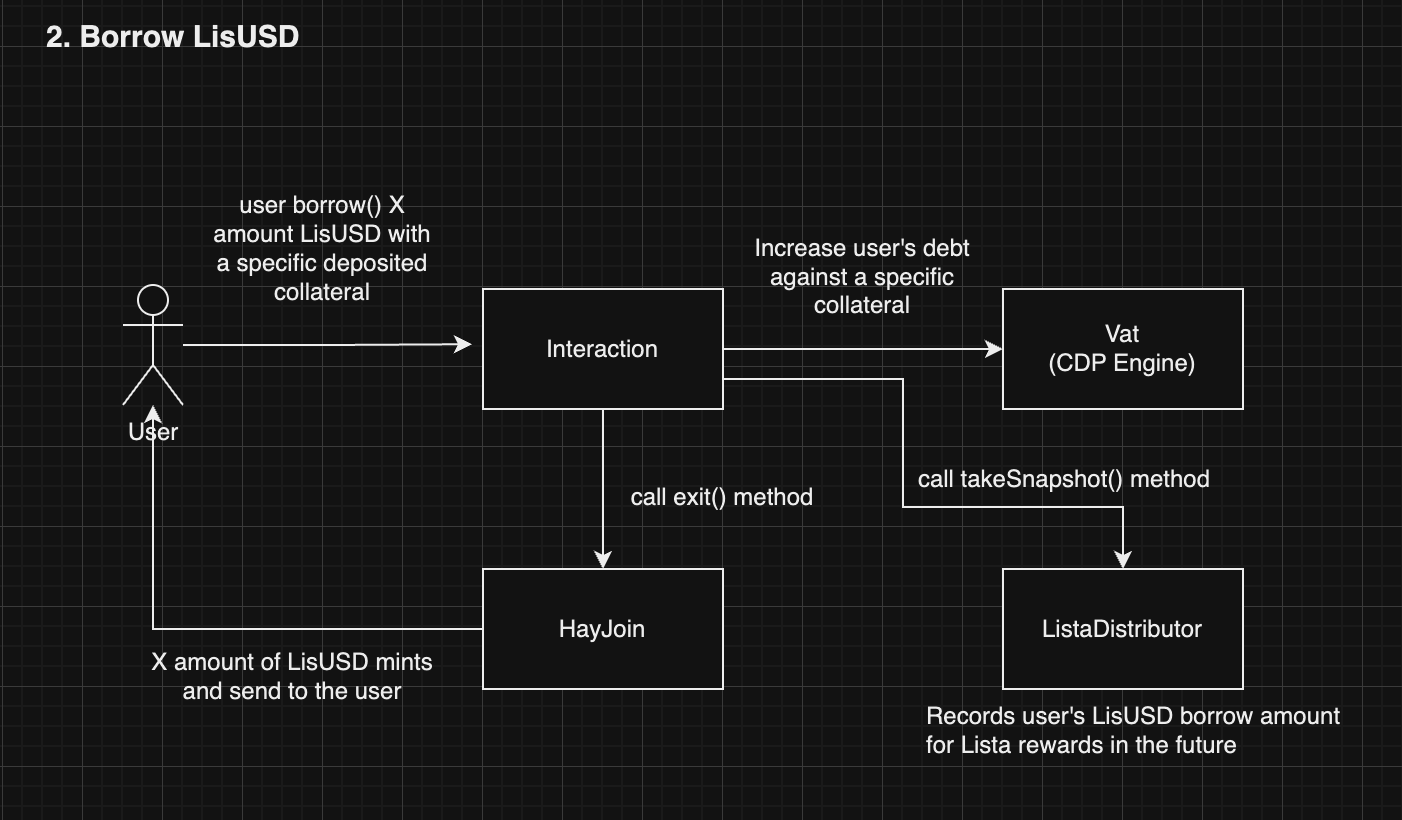
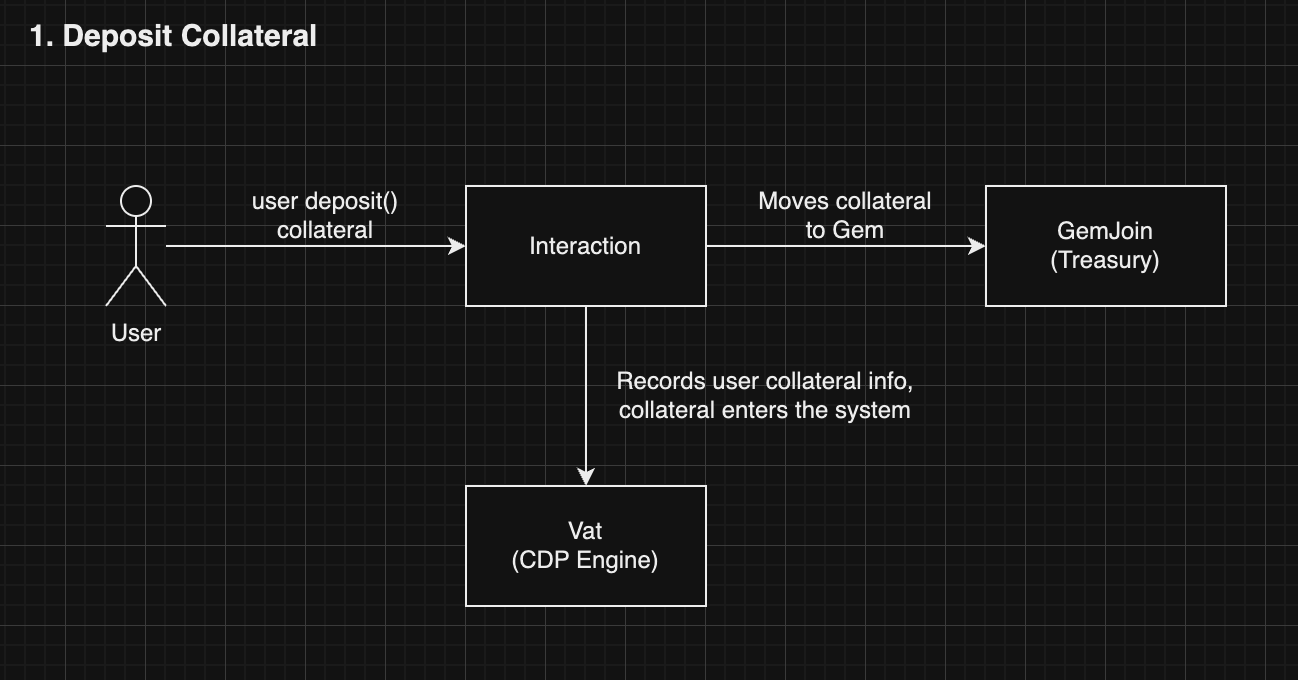
GITBOOK-151: No subject

diff --git a/SUMMARY.md b/SUMMARY.md
@@ -9,7 +9,7 @@
     * [Lista Innovation Zone](introduction/collateral-debt-position-lisusd/collateral/lista-innovation-zone.md)
     * [Loan liquidation](introduction/collateral-debt-position-lisusd/collateral/loan-liquidation.md)
   * [lisUSD](introduction/collateral-debt-position-lisusd/lisusd/README.md)
-    * [Price stability Module (PSM)](introduction/collateral-debt-position-lisusd/lisusd/price-stability-module-psm.md)
+    * [Stable Pool - Price stability Module (PSM)](introduction/collateral-debt-position-lisusd/lisusd/stable-pool-price-stability-module-psm.md)
     * [lisUSD Saving Rate (LSR)](introduction/collateral-debt-position-lisusd/lisusd/lisusd-saving-rate-lsr.md)
     * [D3M - Direct Deposit Module](introduction/collateral-debt-position-lisusd/lisusd/d3m-direct-deposit-module.md)
     * [Algorithmic Market Operations (AMO)](introduction/collateral-debt-position-lisusd/lisusd/algorithmic-market-operations-amo/README.md)

diff --git a/security/audit-reports.md b/security/audit-reports.md
@@ -8,6 +8,8 @@ Lista's smart contracts have undergone multiple external audits and security ass
 
 | Feature                                          | Report                                                                                                                                                                                                                  |
 | ------------------------------------------------ | ----------------------------------------------------------------------------------------------------------------------------------------------------------------------------------------------------------------------- |
+| LISTA Lending                                    | [Bailsec-ListaLending-AuditReport-20250410.pdf](https://github.com/lista-dao/moolah/blob/master/docs/audits/Bailsec-ListaLending-AuditReport-20250410.pdf)                                                              |
+| LISTA Lending                                    | [Blocksec-ListaLending-AuditReport-20250410.pdf](https://github.com/lista-dao/moolah/blob/master/docs/audits/Blocksec-ListaLending-AuditReport-20250410.pdf)                                                            |
 | USDT Staking to Pancake                          | [blocksec\_lista\_usdtLpdistributor\_v1.0-signed.pdf](https://github.com/lista-dao/lista-token/blob/master/audits/blocksec_lista_usdtLpdistributor_v1.0-signed.pdf)                                                     |
 | USDT Staking to Pancake                          | [bailsec\_lista\_usdtLpdistributor\_final\_report.pdf](https://github.com/lista-dao/lista-token/blob/master/audits/bailsec_lista_usdtLpdistributor_final_report.pdf)                                                    |
 | slisBNB Provider                                 | [Bailsec\_SlisbnbProvider\_Final\_Report\_241127.pdf ](https://github.com/lista-dao/lista-dao-contracts/blob/master/audits/Bailsec_SlisbnbProvider_Final_Report_241127.pdf)                                             |